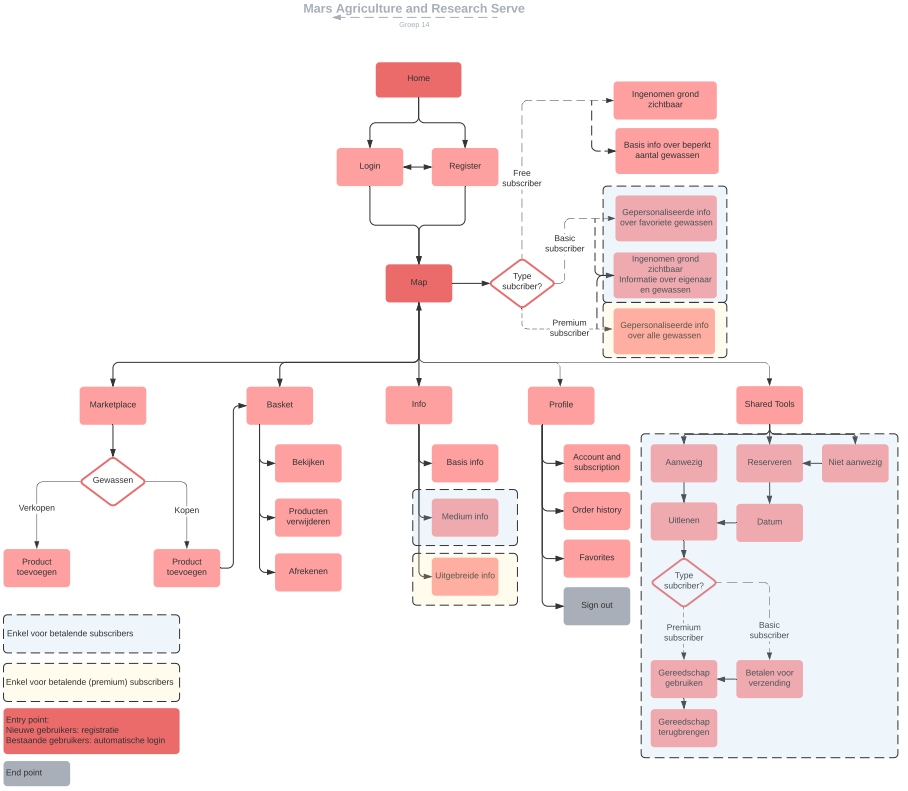
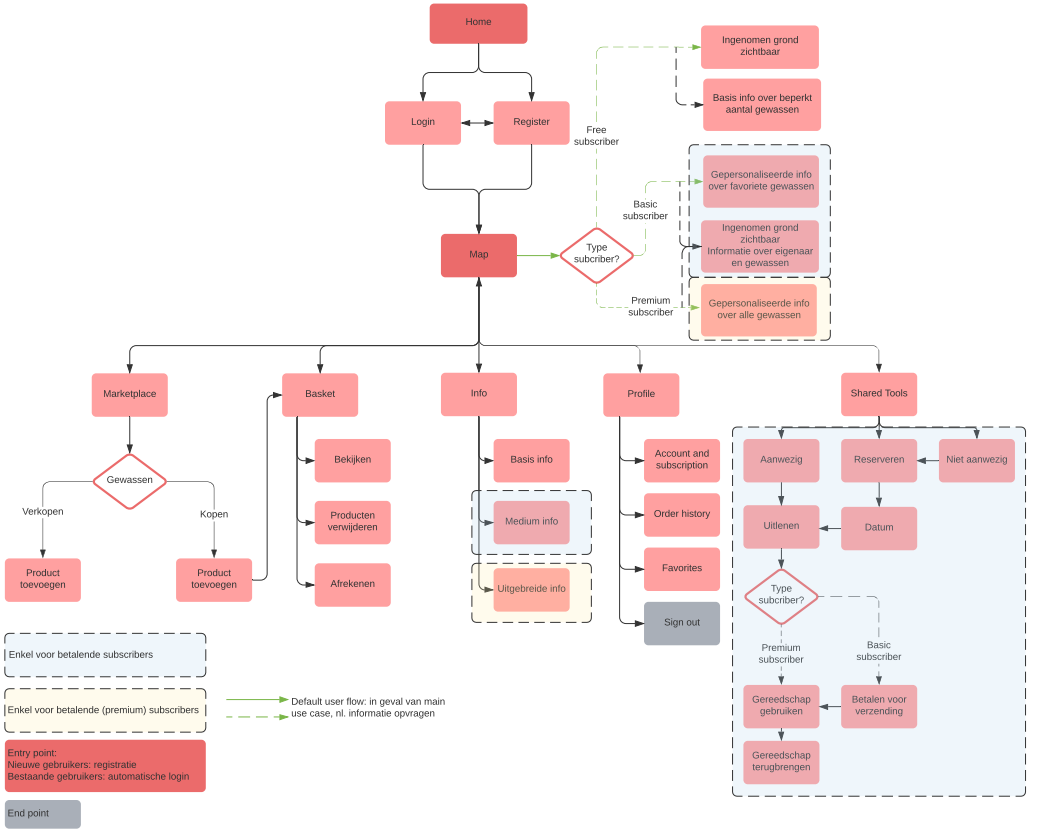
insert flowchart

diff --git a/README.md b/README.md
@@ -56,7 +56,10 @@ ik mis een feature lijst van de POC (dat mag op de docs repo). Wat DOET jullie a
 
 ---
 ## Flowchart
-###
+### Flowchart van het afgeleverde project
+![Flowchart](img/end%20flowchart.png)
+
+### Flowchart zoals opgesteld bij aanvang project
 ![Flowchart](img/flowchart.png)
 <br><br>
 
